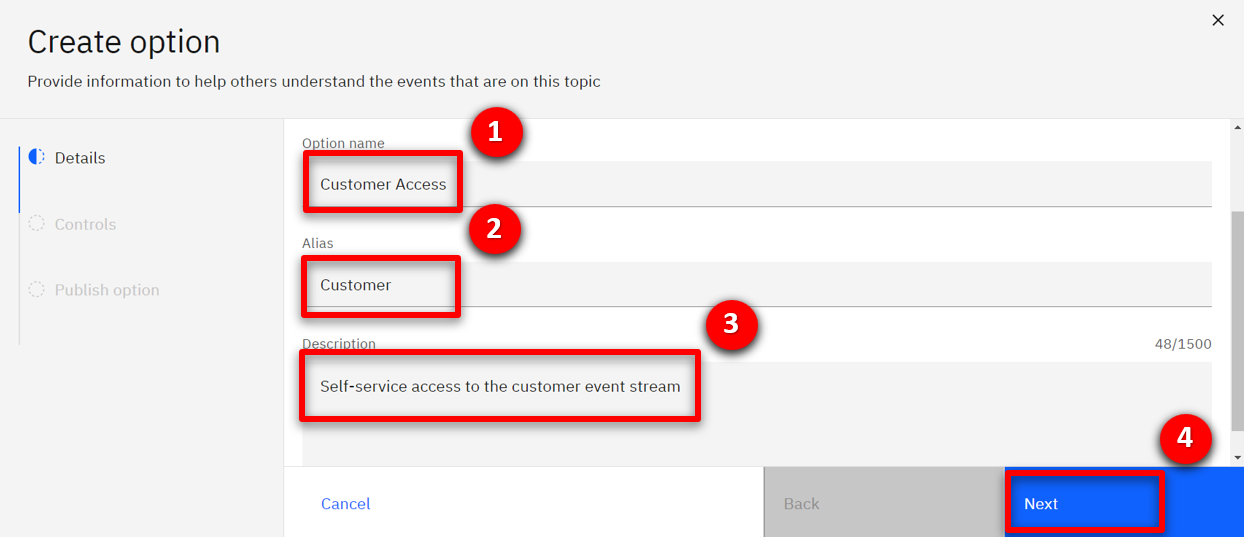
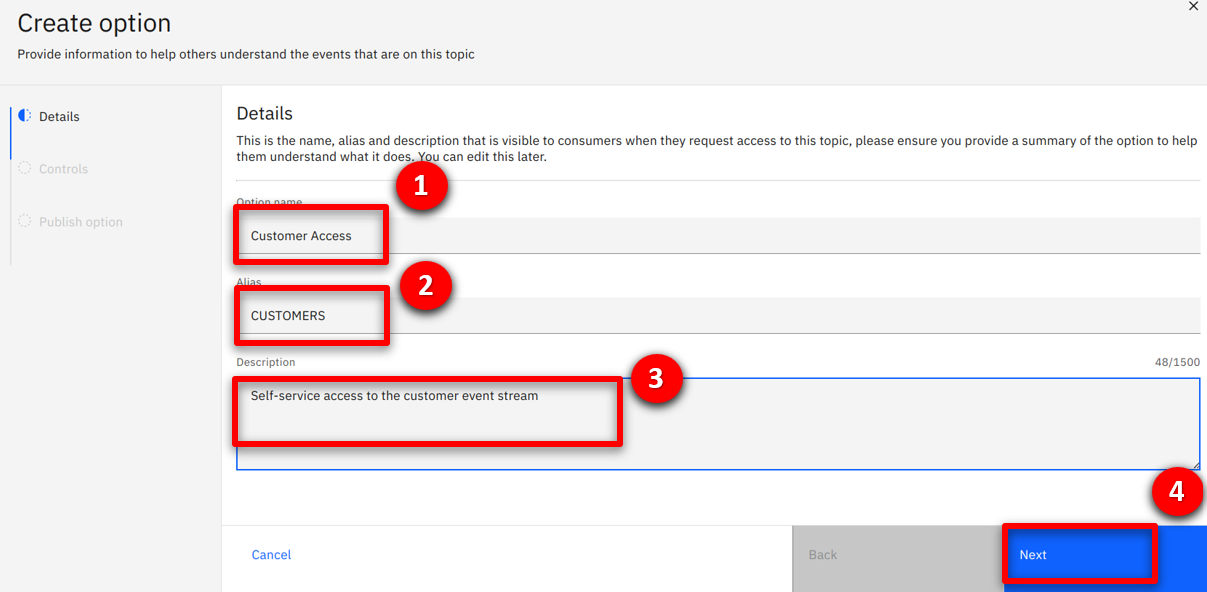
Updates

diff --git a/docs/300-enhancing-ba-with-integration/demo-preparation.md b/docs/300-enhancing-ba-with-integration/demo-preparation.md
@@ -46,7 +46,7 @@ Your have installed the Cloud Pak for Integration ready to be configured.
 
 Now, let's configure our services endpoints in Cloud Pak for Integration.<br/>
 
-1.	Return the command line and use the URL, username (1), credentials (2) and click **Sign In** (3) to access the Platform Navigator.<br/><img src="images/prep-image209.png" width="800" /><br/><img src="images/prep-image210.png" width="800" /><br/><br/><inline-notification text="If you are using Chrome, you may see a certificate error when accessing the page. To bypass this, type <strong>thisisunsafe</strong> and press return."></inline-notification><br/>
+1.	Return to the command line and access the Platform Navigator using the provided URL. Copy and paste  the **Username** (1) and **Password** (2) from the command line output, and click **Sign In** (3).<br/><img src="images/prep-image209.png" width="800" /><br/><img src="images/prep-image210.png" width="800" /><br/>
 
 2. You will be asked to provide a new password as you are using a temporary password. Provide a new password and click **Submit**. <br/><img src="images/prep-501.png" width="800" /><br/>
 
@@ -71,7 +71,7 @@ Now, let's configure our services endpoints in Cloud Pak for Integration.<br/>
 11. Assure **Import a connector file or API document** (1) is selected and select **Next** (2).
 <br/><img src="images/prep-52.png" width="800" /><br/>
 
-12. Select **OpenAPI** (1) for the Document type, the downloaded **CustomerAccountOpenAPIJSONServer.yaml** file (2), and click **Next** (3). <br/><img src="images/prep-52-1.png" width="800" /><br/>
+12. Select **OpenAPI** (1) for the Document type, use the downloaded **CustomerAccountOpenAPIJSONServer.yaml** file (2), and click **Next** (3). <br/><img src="images/prep-52-1.png" width="800" /><br/>
 
 12. Click **Import API**. <br/><img src="images/prep-53.png" width="800" /><br/>
 
@@ -85,7 +85,7 @@ Now, let's configure our services endpoints in Cloud Pak for Integration.<br/>
 
 2. Import the **MQExternalProvider.yaml** file by clicking the **Dashboard** icon (1), then **New** (2), and then **Import flow…** (3). <br/><img src="images/prep-55.png" width="800" /><br/>
 
-3. Select the downloaded **MQExternalProvider.yaml** file (1), and click **Import** (2). <br/><img src="images/prep-56.png" width="800" /><br/>
+3. Use the downloaded **MQExternalProvider.yaml** file (1), and click **Import** (2). <br/><img src="images/prep-56.png" width="800" /><br/>
 
 4. Start the imported flow by selecting **Start flow** (1). <br/><img src="images/prep-57.png" width="800" /><br/>
 
@@ -104,7 +104,7 @@ Now, let's configure our services endpoints in Cloud Pak for Integration.<br/>
 
 4. You will see the following correct response. <br/><img src="images/prep-64.png" width="800" /><br/>
 
-5. Three environmentally specific pieces of information are required to integrate the API into the workflow: the API URL, client ID and hostname. <br/><br/> Scroll to the top of the screen and save the **API URL** (1) and **client ID** (2).<br/><br/>The hostname is contained within the API URL. It is the portion between "http://" and the next "/". <br/><br/> The hostname will look like this: ademo-gw-gateway-cp4i.itzroks-120000k3ak-vzlud5-4b4a324f027aea19c5cbc0c3275c4656-0000.eu-de.containers.appdomain.cloud<br/><br/>Save the hostname with the API URL and client ID.<br/><img src="images/prep-65.png" width="800" /><br/>
+5. Three environmentally specific pieces of information are required to integrate the API into the workflow: the API URL, client ID and hostname. <br/><br/> Scroll to the top of the screen and save the **API URL** (1) and **client ID** (2).<br/><br/>The hostname is contained within the API URL. It is the portion between "https://" and the next "/". <br/><br/> The hostname will look like this: ademo-gw-gateway-cp4i.itzroks-120000k3ak-vzlud5-4b4a324f027aea19c5cbc0c3275c4656-0000.eu-de.containers.appdomain.cloud<br/><br/>Save the hostname, API URL and client ID.<br/><img src="images/prep-65.png" width="800" /><br/>
 
 **[Go to top](#top)**
 
@@ -316,4 +316,4 @@ In the demo script, you will be required to use the OpenAPI 3.0 YAML file to dis
 
 ***
 
-Click [here](/300-enhancing-ba-with-integration/demo-script) to go to the **Demo script** on the next tab.
+Click [here]((/platinum-demos/300-enhancing-ba-with-integration/demo-script) to go to the **Demo script** on the next tab.

diff --git a/docs/300-integration-using-event-automation-to-create-kafka-streams-from-ibm-mq/demo-script.md b/docs/300-integration-using-event-automation-to-create-kafka-streams-from-ibm-mq/demo-script.md
@@ -111,7 +111,7 @@ Focus Corp’s integration team exposes the enterprise’s data using event stre
 | **Action** &nbsp; 1.7.5 | Select the **Event information** tab, scroll down to the sample message text box (2) and copy the content from below, and click **Save** (3). <br/> <br/><inline-code code="{<br/>&nbsp;&nbsp;&quot;customerid&quot;: &quot;acb3eb65-98a1-45c2-84d4-f5df157862b4&quot;,<br/>&nbsp;&nbsp;&quot;customername&quot;: &quot;Emilio Quitzon&quot;,<br/>&nbsp;&nbsp;&quot;registered&quot;: &quot;2023-10-24 19:20:35.638&quot;<br/>}"></inline-code> <img src="images/1-7-SampleCustomer.png" width="800" /> |
 | **Narration** | The integration team publishes the event stream, which allows consumers to view and subscribe. |
 | **Action** &nbsp; 1.7.6 | Select the **Options** (1) tab and click on the **Create Option +** (2) button. <br/> <img src="images/1-7-OptionsCustomer.png" width="800" /> |
-| **Action** &nbsp; 1.7.7 | Enter **Customer Access** (1) as the option name, **Customer** (2) as the alias, **Self-service access to customer event stream** (3) as the description and click **Next** (4).  <br/> <img src="images/1-7-OptionsCreateCustomer.png" width="800" /> |
+| **Action** &nbsp; 1.7.7 | Enter **Customer Access** (1) as the option name, **CUSTOMERS** (2) as the alias, **Self-service access to customer event stream** (3) as the description and click **Next** (4).  <br/> <img src="images/1-7-OptionsCreateCustomer.png" width="800" /> |
 | **Action** &nbsp; 1.7.8 | Click **Next**.  <br/> <img src="images/1-7-OptionsCreateControlsCustomer.png" width="800" /> |
 | **Action** &nbsp; 1.7.9 | Click **Publish**.  <br/> <img src="images/1-7-PublishCustomer.png" width="800" /> |
 | **Action** &nbsp; 1.7.10 | Check the **production** (1) checkbox and click **Save** (2).  <br/> <img src="images/1-7-OptionsSaveCustomer.png" width="800" /> |
@@ -122,7 +122,7 @@ Focus Corp’s integration team exposes the enterprise’s data using event stre
 | **Action** &nbsp; 1.7.14 | Scroll down and enter **order** (1) as a tag and **orders@focus.corp** (2) as the contact email. <br/> <img src="images/1-7-OrderContact.png" width="800" /> |
 | **Action** &nbsp; 1.7.15 | Select the **Event information** tab, scroll down to the sample message text box (2) and copy the content from below, and click **Save** (3). <br/> <br/><inline-code code="{<br/>&nbsp;&nbsp;&quot;quantity&quot;: 9,<br/>&nbsp;&nbsp;&quot;price&quot;: 197.09,<br/>&nbsp;&nbsp;&quot;customerid&quot;: &quot;a7d1586b-ced1-462f-9e44-14e9e5013540&quot;,<br/>&nbsp;&nbsp;&quot;description&quot;: &quot;Composite Oversize 28in Tennis Racket&quot;,<br/>&nbsp;&nbsp;&quot;id&quot;: &quot;1eba7af9-b748-4754-b750-3459e589dccf&quot;,<br/>&nbsp;&nbsp;&quot;region&quot;: &quot;EMEA&quot;,<br/>&nbsp;&nbsp;&quot;ordertime&quot;: &quot;2023-10-24 19:26:04.839&quot;,<br/>&nbsp;&nbsp;&quot;customer&quot;: &quot;Reed McKenzie DDS&quot;<br/>}"></inline-code> <img src="images/1-7-SampleOrder.png" width="800" /> |
 | **Action** &nbsp; 1.7.16 | Select the **Options** (1) tab and click on the **Create Option +** (2) button. <br/> <img src="images/1-7-OptionsOrder.png" width="800" /> |
-| **Action** &nbsp; 1.7.17 | Enter **Order Access** (1) as the option name, **Order** (2) as the alias, **Self-service access to orders event stream** (3) as the description and click **Next** (4).  <br/> <img src="images/1-7-OptionsCreateOrders.png" width="800" /> |
+| **Action** &nbsp; 1.7.17 | Enter **Order Access** (1) as the option name, **ORDERS** (2) as the alias, **Self-service access to orders event stream** (3) as the description and click **Next** (4).  <br/> <img src="images/1-7-OptionsCreateOrders.png" width="800" /> |
 | **Action** &nbsp; 1.7.18 | Click **Next**.  <br/> <img src="images/1-7-OptionsCreateControlsOrder.png" width="800" /> |
 | **Action** &nbsp; 1.7.19 | Click **Publish**.  <br/> <img src="images/1-7-PublishOrder.png" width="800" /> |
 | **Action** &nbsp; 1.7.20 | Check the **production** (1) checkbox and click **Save** (2).  <br/> <img src="images/1-7-OptionsSaveOrder.png" width="800" /> |

diff --git a/docs/300-integration-detecting-time-critical-situtations-using-event-automation/demo-preparation.md b/docs/300-integration-detecting-time-critical-situtations-using-event-automation/demo-preparation.md
@@ -96,7 +96,7 @@ The installation of the demo has not imported the event streams into the Event M
 14. Select the **Options** (1) tab and click on the **Create Option +** (2) button.     
     <img src="../300-integration-using-event-automation-to-create-kafka-streams-from-ibm-mq/images/1-7-OptionsCustomer.png" width="800" />
 
-15. Enter **Customer Access** (1) as the option name, **Customer** (2) as the alias, **Self-service access to customer event stream** (3) as the description and click **Next** (4).       
+15. Enter **Customer Access** (1) as the option name, **CUSTOMERS** (2) as the alias, **Self-service access to customer event stream** (3) as the description and click **Next** (4).       
     <img src="../300-integration-using-event-automation-to-create-kafka-streams-from-ibm-mq/images/1-7-OptionsCreateCustomer.png" width="800" /> 
 
 16. Click **Next**.     
@@ -127,7 +127,7 @@ The installation of the demo has not imported the event streams into the Event M
 24. Select the **Options** (1) tab and click on the **Create Option +** (2) button.        
     <img src="../300-integration-using-event-automation-to-create-kafka-streams-from-ibm-mq/images/1-7-OptionsOrder.png" width="800" />
 
-25. Enter **Order Access** (1) as the option name, **Order** (2) as the alias, **Self-service access to orders event stream** (3) as the description and click **Next** (4).         
+25. Enter **Order Access** (1) as the option name, **ORDERS** (2) as the alias, **Self-service access to orders event stream** (3) as the description and click **Next** (4).         
     <img src="../300-integration-using-event-automation-to-create-kafka-streams-from-ibm-mq/images/1-7-OptionsCreateOrders.png" width="800" />
 
 26. Click **Next**.        
